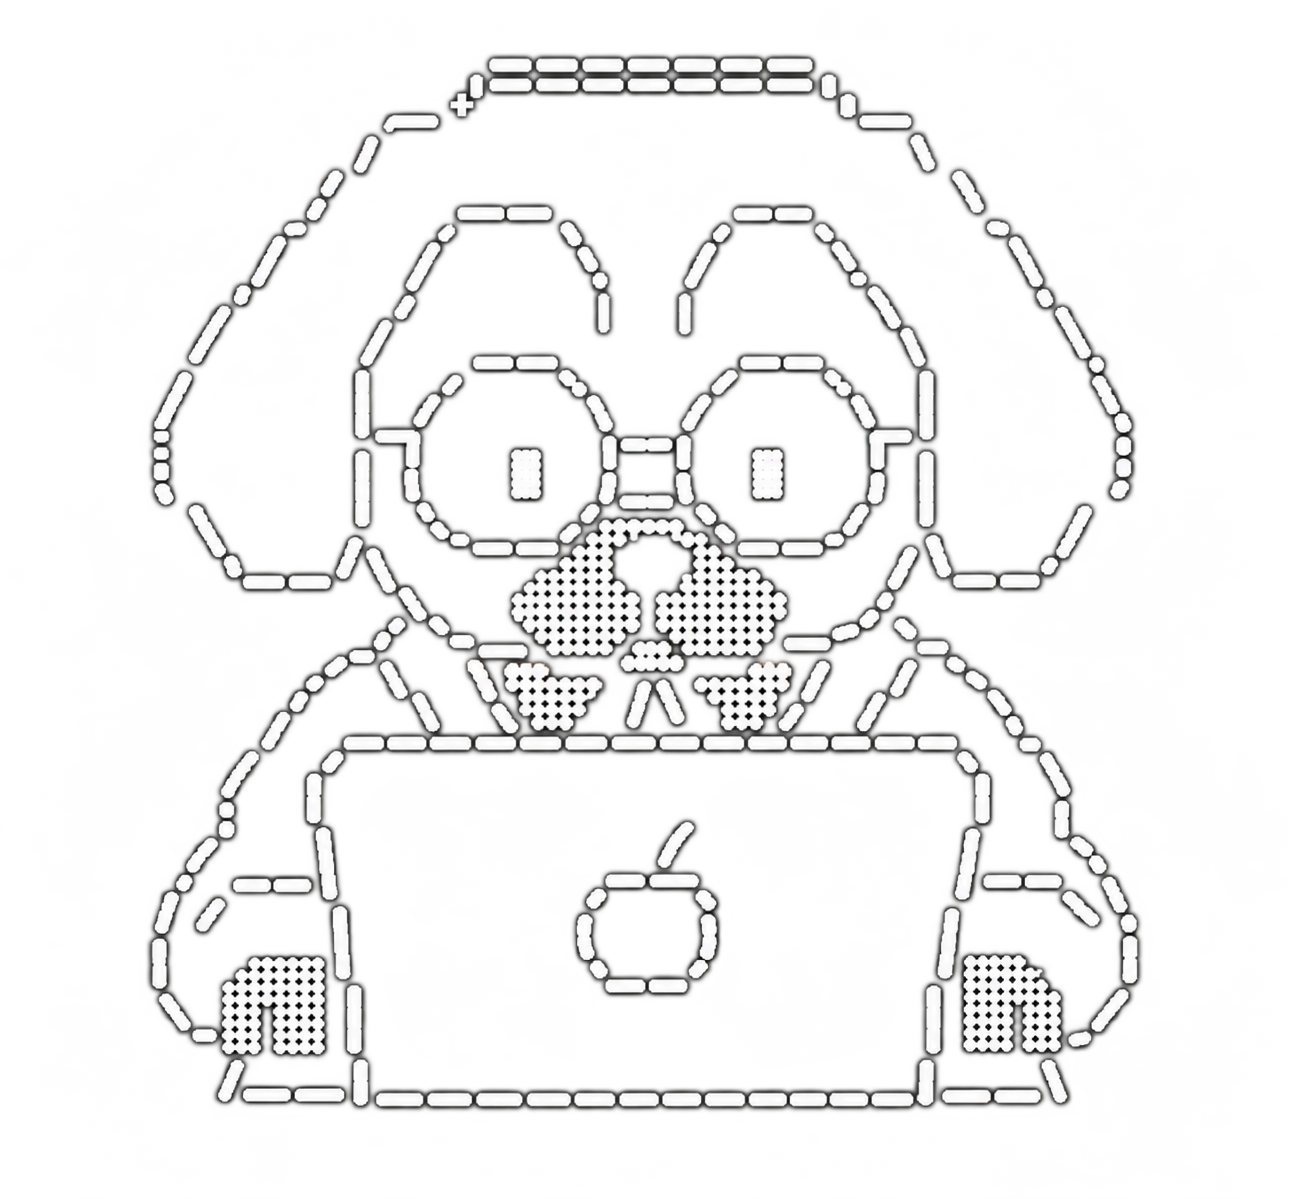
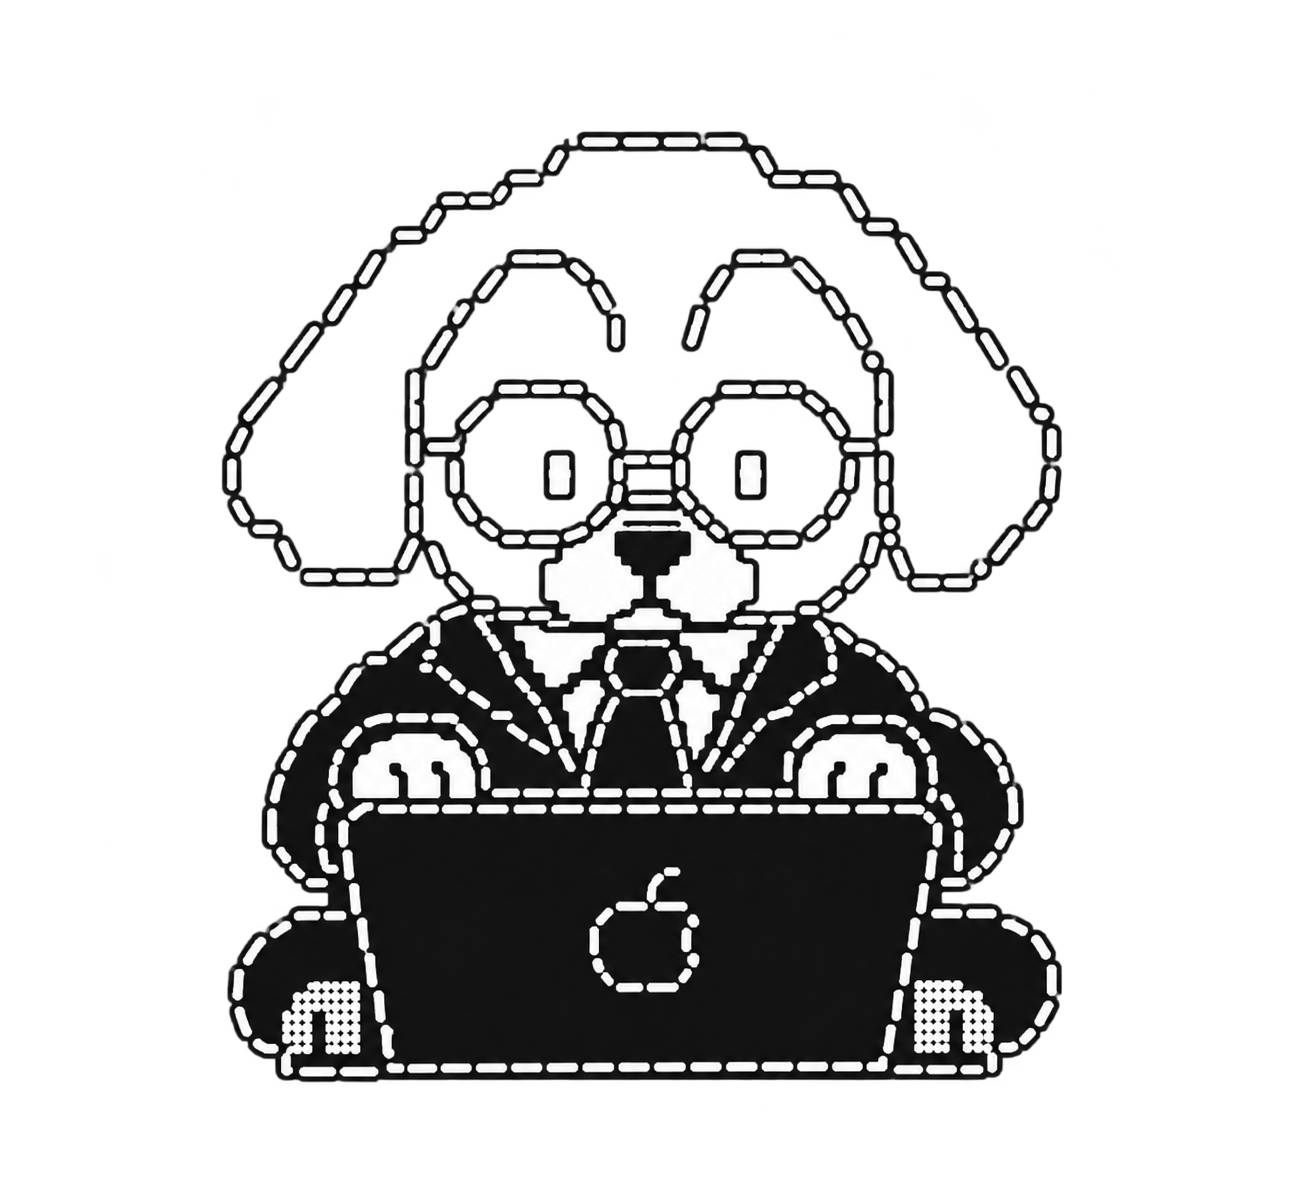
docs: replace dog image and set width to 200px

diff --git a/README.md b/README.md
@@ -4,7 +4,7 @@
 
 <br clear="right">
 
-<img src="retrato-ascii.png" align="left" width="300" alt="Ilustración ASCII en blanco y negro de un perro con gafas frente a una laptop">
+<img src="retrato-ascii.png" align="left" width="200" alt="Perro con gafas trabajando en una laptop">
 
 <p>
   <sub>STACK</sub><br><br>
